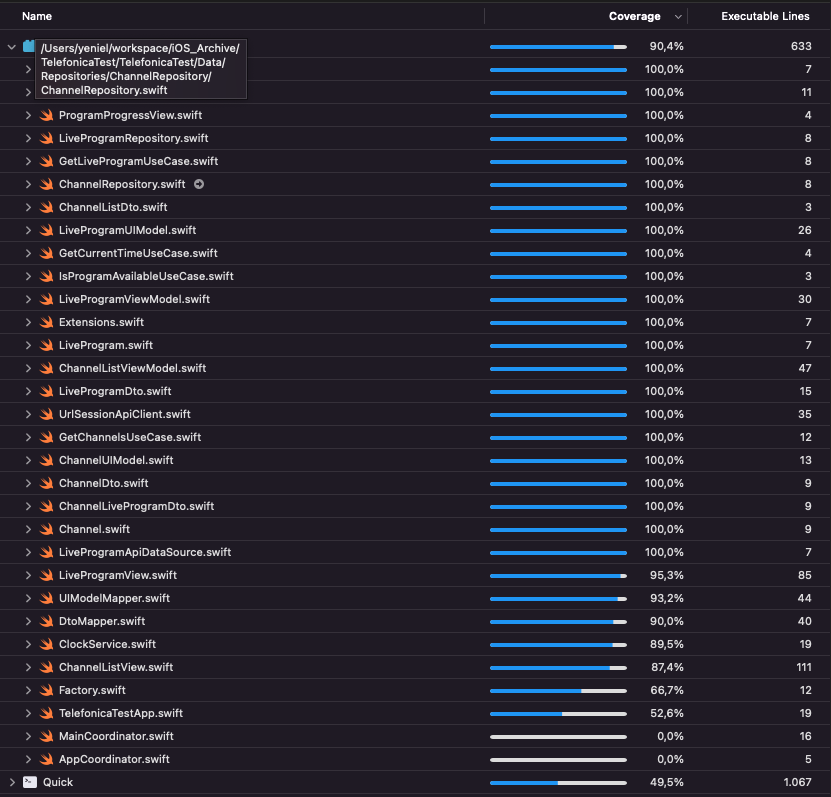
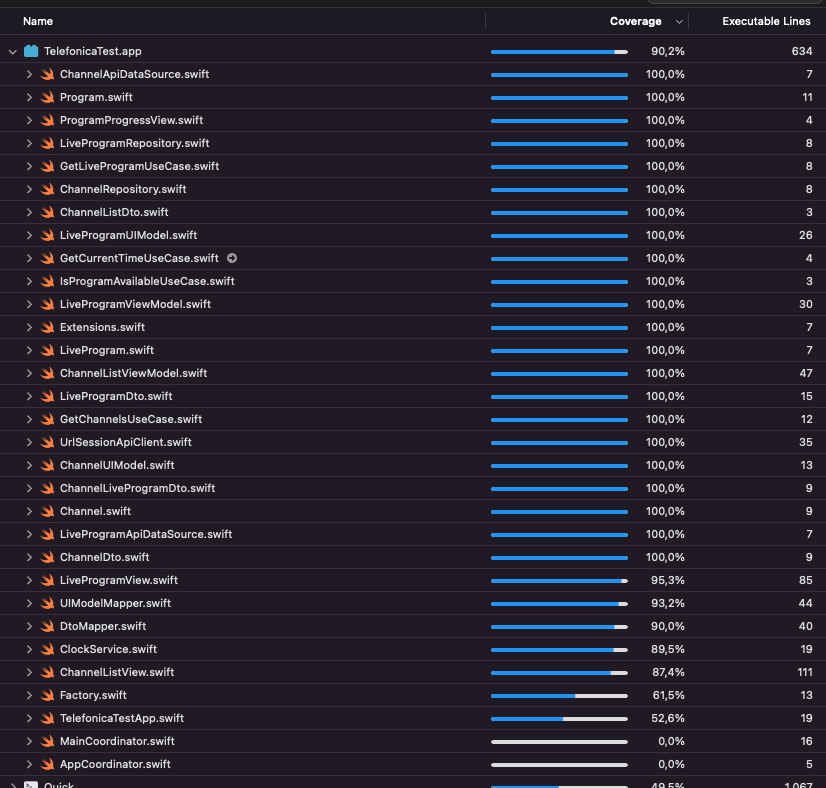
Readme with Codecov

diff --git a/README.md b/README.md
@@ -1,6 +1,7 @@
 # Telefonica Test
 
 [![Build Status](https://app.bitrise.io/app/b461c3510d5187c1/status.svg?token=GF2fIRdDXlW0HnxxoJ1yDg&branch=master)](https://app.bitrise.io/app/b461c3510d5187c1)
+[![codecov](https://codecov.io/gh/yeniel/TelefonicaTest/branch/master/graph/badge.svg?token=P6H8927N5F)](https://codecov.io/gh/yeniel/TelefonicaTest)
 [![Language](https://img.shields.io/static/v1.svg?label=language&message=Swift%205&color=FA7343&logo=swift&style=flat-square)](https://swift.org)
 [![Platform](https://img.shields.io/static/v1.svg?label=platforms&message=iOS%20&logo=apple&style=flat-square)](https://apple.com)
 
@@ -97,7 +98,7 @@ To increase the speed I change a little the entry point of the app (`TelefonicaT
 I cut the app to a simple view in case we are running the tests.
 I also configured the scheme to randomize the execution order.
 
-The **coverage** is **90,4%**
+The **coverage** is **90,2%**
 
 ![Coverage](ReadmeAssets/coverage_telefonica_test.png)
 
@@ -114,7 +115,12 @@ The **coverage** is **90,4%**
 - UITests: I didn't do test for the tap of a channel. I think I covered it with the routing test in the viewmodel.
 
 ## CI
-I chose **Bitrise** as CI. I created a workflow with a trigger on every push on master branch. You can see the badge of the status in the top of this README, and if you click on it you will see the Bitrise builds
+I chose **Bitrise** as CI. I created a workflow with a trigger on every push on master branch. You can see the badge of the status in the top of this README, and if you click on it you will see the Bitrise builds. There also a badge of code coverage.
+
+I added the following steps:
+1. Build
+2. Run tests
+3. Send coverage to [Codecov](https://about.codecov.io/)
 
 ## Other considerations
 #### App Transport Security
